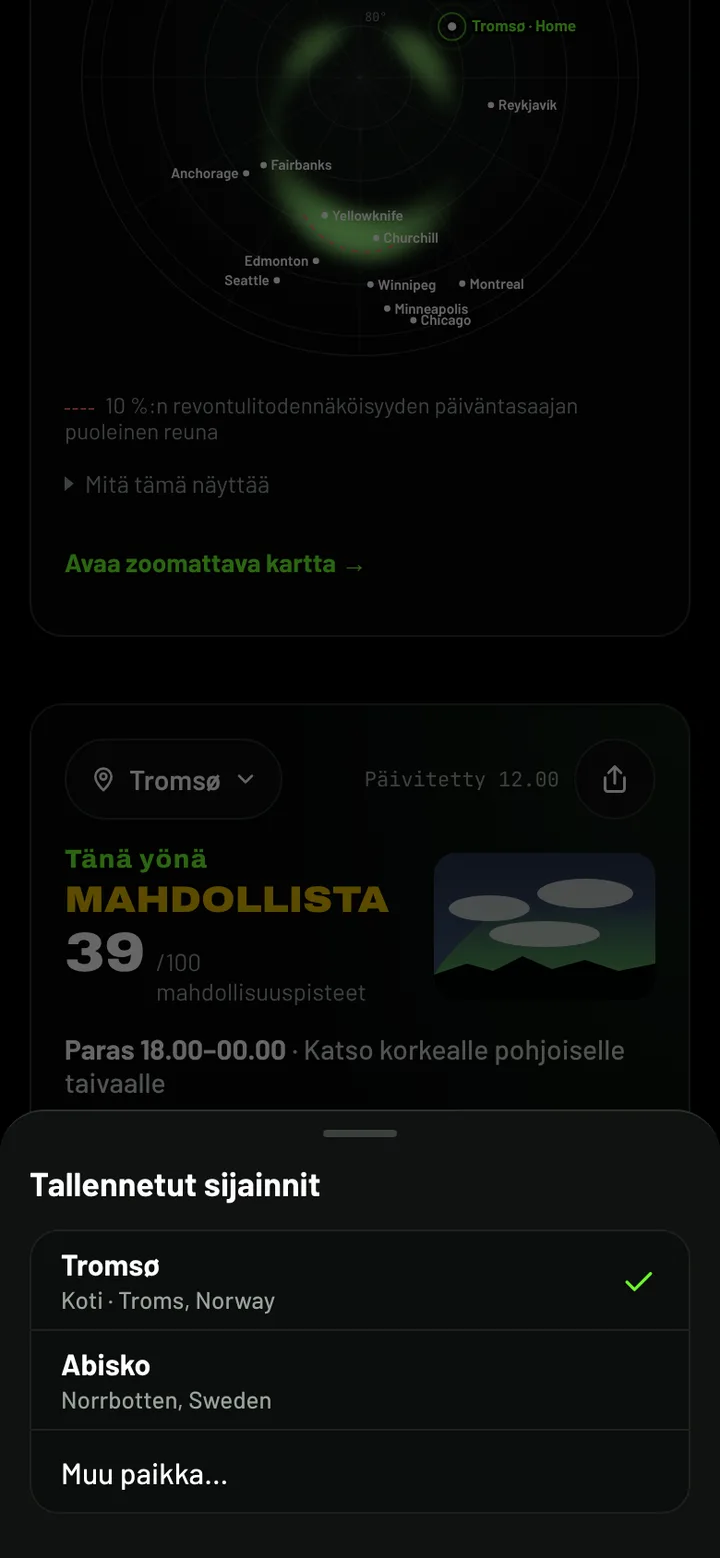
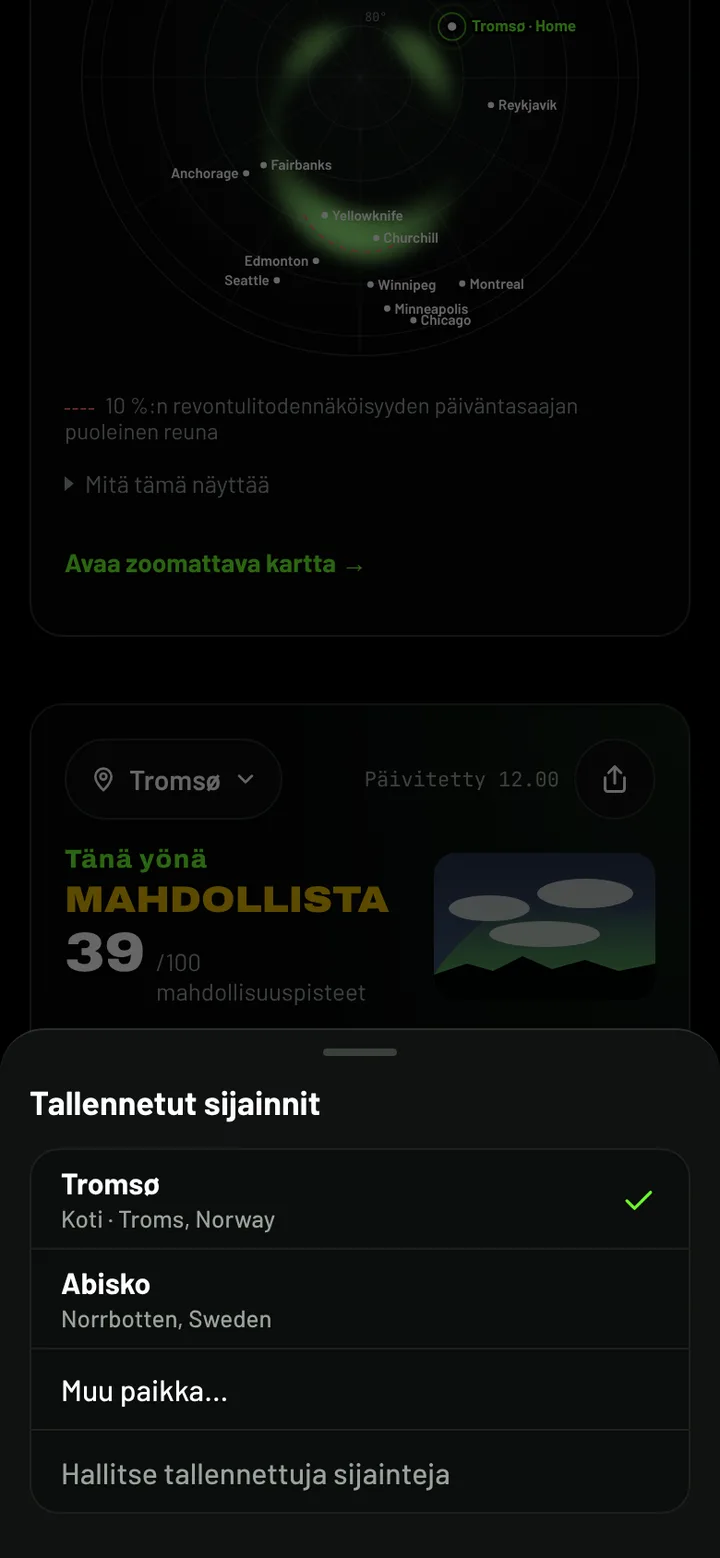
Place picker: help article in nine languages, new place-list screenshots
Claude-Session: https://claude.ai/code/session_012CrCYLZEfx1x1rGoXHPbfj

Changed region(s): [[0.0306, 0.647, 0.8556, 0.9551]]

diff --git a/app/src/i18n/messages/de.ts b/app/src/i18n/messages/de.ts
@@ -719,7 +719,7 @@ export const de: Messages = {
   'tonight.setPlace': 'Standort festlegen',
   'tonight.changePlace': 'Standort ändern ({place})',
   'tonight.otherPlace': "Anderer Ort…",
-  'place.find': "Ort suchen",
+  'place.find': "Ort finden",
   'place.show': "Diesen Ort anzeigen",
   'place.manage': "Gespeicherte Orte verwalten",
   'tonight.updated': 'Aktualisiert {time}',

diff --git a/app/content/support/ru/start/set-your-location.md b/app/content/support/ru/start/set-your-location.md
@@ -7,22 +7,29 @@ order: 30
 
 ## Как указать «Дом»
 
-На странице **Сейчас** нажмите **Указать место** на карточке **Сегодня ночью**. Откроется поиск места в блоке **Ваше небо** чуть ниже. Затем:
+На странице **Сейчас** нажмите **Указать место** на карточке **Сегодня ночью**. Откроется окно **Найти место**. Затем:
 
 - нажмите **Моё текущее местоположение** и разрешите доступ к геопозиции или
 - введите название города в поле **Найти город**, нажмите **Найти** и выберите нужный результат.
 
-Чтобы сохранить место, выберите **Сохранить как «Дом»**. Ваши оповещения тоже будут для этого места.
+После этого выберите **Сохранить как «Дом»**. Ваши оповещения тоже будут для этого места.
 
 ## Как переключаться между местами
 
-Нажмите на название места на карточке **Сегодня ночью**. В списке **Сохранённые места** перечислены ваши места; нажмите на одно из них, чтобы увидеть прогноз на эту ночь. Пункт **Другое место…** позволяет посмотреть новое место, не сохраняя его.
+Нажмите на название места вверху карточки **Сегодня ночью**. В списке **Сохранённые места** перечислены ваши места; нажмите на одно из них, чтобы увидеть прогноз на эту ночь. Блок **Ваше небо** ниже всегда показывает то же место, а его кнопка **Сменить место** открывает тот же список.
 
-![Список мест на карточке «Сегодня ночью», «Дом» отмечен галочкой](screen:tonight-places)
+![Список мест: сохранённые места, «Другое место…» и «Управлять сохранёнными местами»](screen:tonight-places)
+
+## Как посмотреть другое место
+
+В списке нажмите **Другое место…** и найдите его так же. Затем выберите:
+
+- **Показать это место**, чтобы сразу увидеть прогноз для него, не сохраняя его. Кнопка **Назад к «Дому»** в блоке **Ваше небо** вернёт вас к «Дому».
+- **Сохранить как «Дом»**, чтобы сделать его «Домом». На тарифе «Бесплатный» оно заменит ваш текущий «Дом».
 
 ## Управление местами
 
-На телефоне откройте **Профиль** → **Сохранённые места**, на компьютере — **Панель** → **Места**. Для каждого места показано, какое там небо сейчас. Здесь можно:
+Нажмите **Управлять сохранёнными местами** внизу списка или на телефоне откройте **Профиль** → **Сохранённые места**. На компьютере откройте **Панель** → **Места**. Для каждого места показано, какое там небо сейчас. Здесь можно:
 
 - **Добавить место**,
 - **Сделать «Домом»** другое сохранённое место,

diff --git a/app/content/support/de/start/set-your-location.md b/app/content/support/de/start/set-your-location.md
@@ -7,22 +7,29 @@ Alles auf der Seite **Jetzt** wird für einen Ort berechnet: ob es dort dunkel i
 
 ## Heimatort festlegen
 
-Tippen Sie auf der Seite **Jetzt** in der Karte **Heute Nacht** auf **Standort festlegen**. Dadurch öffnet sich die Ortssuche in **Ihr Himmel**, etwas weiter unten. Dann können Sie entweder:
+Tippen Sie auf der Seite **Jetzt** in der Karte **Heute Nacht** auf **Standort festlegen**. Es öffnet sich **Ort finden**. Dann können Sie entweder:
 
 - auf **Meinen aktuellen Standort verwenden** tippen und den Zugriff auf Ihren Standort erlauben, oder
 - einen Ort in **Ort suchen** eingeben, auf **Suchen** tippen und das richtige Ergebnis auswählen.
 
-Wählen Sie **Als Heimatort speichern**, um ihn zu behalten. Ihre Alarme gelten ebenfalls für diesen Ort.
+Wählen Sie anschließend **Als Heimatort speichern**. Ihre Alarme gelten ebenfalls für diesen Ort.
 
 ## Zwischen Orten wechseln
 
-Tippen Sie auf den Ortsnamen in der Karte **Heute Nacht**. Unter **Gespeicherte Orte** sind Ihre Orte aufgeführt; tippen Sie auf einen, um die Vorhersage für heute Nacht dort zu sehen. Mit **Anderer Ort…** sehen Sie sich einen neuen Ort an, ohne ihn zu speichern.
+Tippen Sie oben in der Karte **Heute Nacht** auf den Ortsnamen. Unter **Gespeicherte Orte** sind Ihre Orte aufgeführt; tippen Sie auf einen, um die Vorhersage für heute Nacht dort zu sehen. **Ihr Himmel** weiter unten zeigt immer denselben Ort, und die Schaltfläche **Ort ändern** dort öffnet dieselbe Liste.
 
-![Die Ortsliste der Karte Heute Nacht, mit Häkchen beim Heimatort](screen:tonight-places)
+![Die Ortsliste: gespeicherte Orte, Anderer Ort… und Gespeicherte Orte verwalten](screen:tonight-places)
+
+## Einen anderen Ort ansehen
+
+Tippen Sie in der Liste auf **Anderer Ort…** und suchen Sie ihn auf dieselbe Weise. Wählen Sie dann:
+
+- **Diesen Ort anzeigen**, um seine Vorhersage sofort zu sehen, ohne ihn zu speichern. Mit **Zurück zum Heimatort** in **Ihr Himmel** kehren Sie zum Heimatort zurück.
+- **Als Heimatort speichern**, um ihn zu Ihrem Heimatort zu machen. Im Tarif Kostenlos ersetzt er Ihren bisherigen Heimatort.
 
 ## Orte verwalten
 
-Öffnen Sie auf dem Handy **Profil** → **Gespeicherte Orte**. Öffnen Sie am Computer **Dashboard** → **Orte**. Zu jedem Ort sehen Sie den Himmel im Moment. Hier können Sie:
+Tippen Sie unten in der Liste auf **Gespeicherte Orte verwalten**, oder öffnen Sie auf dem Handy **Profil** → **Gespeicherte Orte**. Öffnen Sie am Computer **Dashboard** → **Orte**. Zu jedem Ort sehen Sie den Himmel im Moment. Hier können Sie:
 
 - mit **Ort hinzufügen** einen Ort hinzufügen,
 - mit **Als Heimatort** einen anderen gespeicherten Ort zum Heimatort machen,

diff --git a/app/content/support/nl/start/set-your-location.md b/app/content/support/nl/start/set-your-location.md
@@ -7,22 +7,29 @@ Alles op de pagina **Nu** wordt berekend voor één plek: of het daar donker is,
 
 ## Je thuislocatie instellen
 
-Tik op de pagina **Nu** op **Locatie instellen** op de kaart **Vannacht**. Daarmee open je de plaatszoeker in **Jouw hemel**, iets verder naar beneden. Daarna kun je:
+Tik op de pagina **Nu** op **Locatie instellen** op de kaart **Vannacht**. **Een plek zoeken** wordt geopend. Daarna kun je:
 
 - op **Mijn huidige locatie gebruiken** tikken en toegang tot je locatie toestaan, of
 - een plaats typen in **Zoek een plaats**, op **Zoeken** tikken en het juiste resultaat kiezen.
 
-Kies **Opslaan als thuis** om de plek te bewaren. Je meldingen gelden ook voor deze plek.
+Kies vervolgens **Opslaan als thuis**. Je meldingen gelden ook voor deze plek.
 
 ## Wisselen tussen plekken
 
-Tik op de naam van de plek op de kaart **Vannacht**. Onder **Opgeslagen locaties** staan je plekken; tik op een plek om de verwachting voor vannacht daar te zien. Met **Andere plaats…** bekijk je een nieuwe plek zonder die op te slaan.
+Tik op de naam van de plek bovenaan de kaart **Vannacht**. Onder **Opgeslagen locaties** staan je plekken; tik op een plek om de verwachting voor vannacht daar te zien. **Jouw hemel**, verder naar beneden, toont altijd dezelfde plek, en de knop **Locatie wijzigen** daar opent dezelfde lijst.
 
-![De lijst met plekken op de kaart Vannacht, met je thuislocatie aangevinkt](screen:tonight-places)
+![De lijst met plekken: opgeslagen plekken, Andere plaats… en Opgeslagen locaties beheren](screen:tonight-places)
+
+## Een andere plek bekijken
+
+Tik in de lijst op **Andere plaats…** en zoek de plek op dezelfde manier. Kies daarna:
+
+- **Deze plek tonen** om nu de verwachting te zien zonder de plek op te slaan. Met **Terug naar thuislocatie** in **Jouw hemel** ga je terug naar je thuislocatie.
+- **Opslaan als thuis** om er je thuislocatie van te maken. Met het abonnement Gratis vervangt die je huidige thuislocatie.
 
 ## Je plekken beheren
 
-Open op een telefoon **Profiel** → **Opgeslagen locaties**. Open op een computer **Dashboard** → **Locaties**. Bij elke plek zie je hoe de hemel er nu bij staat. Hier kun je:
+Tik onderaan de lijst op **Opgeslagen locaties beheren**, of open op een telefoon **Profiel** → **Opgeslagen locaties**. Open op een computer **Dashboard** → **Locaties**. Bij elke plek zie je hoe de hemel er nu bij staat. Hier kun je:
 
 - **Locatie toevoegen**,
 - met **Maak thuislocatie** een andere opgeslagen plek je thuislocatie maken,

diff --git a/app/content/support/es/start/set-your-location.md b/app/content/support/es/start/set-your-location.md
@@ -7,22 +7,29 @@ Todo lo que ves en la página **Ahora** se calcula para un lugar: si allí es de
 
 ## Elige tu ubicación principal
 
-En la página **Ahora**, toca **Elegir ubicación** en la tarjeta **Esta noche**. Se abre el buscador de lugares en **Tu cielo**, un poco más abajo. Después:
+En la página **Ahora**, toca **Elegir ubicación** en la tarjeta **Esta noche**. Se abre **Buscar un lugar**. Después:
 
 - toca **Usar mi ubicación actual** y permite el acceso a tu ubicación, o
 - escribe una localidad en **Busca una localidad**, toca **Buscar** y elige el resultado correcto.
 
-Elige **Guardar como principal** para conservarla. Tus alertas también son para este lugar.
+Luego elige **Guardar como principal**. Tus alertas también son para este lugar.
 
 ## Cambia de lugar
 
-Toca el nombre del lugar en la tarjeta **Esta noche**. **Ubicaciones guardadas** muestra tus lugares; toca uno para ver la previsión de esta noche allí. **Otro lugar…** te permite consultar un sitio nuevo sin guardarlo.
+Toca el nombre del lugar en la parte superior de la tarjeta **Esta noche**. **Ubicaciones guardadas** muestra tus lugares; toca uno para ver la previsión de esta noche allí. **Tu cielo**, más abajo, siempre muestra el mismo lugar, y su botón **Cambiar ubicación** abre la misma lista.
 
-![La lista de lugares de la tarjeta Esta noche, con la ubicación principal marcada](screen:tonight-places)
+![La lista de lugares: lugares guardados, Otro lugar… y Gestionar ubicaciones guardadas](screen:tonight-places)
+
+## Consulta otro lugar
+
+En la lista, toca **Otro lugar…** y búscalo de la misma forma. Después elige:
+
+- **Mostrar este lugar** para ver ahora su previsión sin guardarlo. **Volver a la principal**, en **Tu cielo**, te devuelve a tu ubicación principal.
+- **Guardar como principal** para convertirlo en tu ubicación principal. En el plan Gratis, sustituye a tu ubicación principal actual.
 
 ## Gestiona tus lugares
 
-En el móvil, abre **Perfil** → **Ubicaciones guardadas**. En el ordenador, abre **Panel** → **Lugares**. Cada lugar muestra cómo está su cielo ahora mismo. Desde aquí puedes:
+Toca **Gestionar ubicaciones guardadas** al final de la lista o, en el móvil, abre **Perfil** → **Ubicaciones guardadas**. En el ordenador, abre **Panel** → **Lugares**. Cada lugar muestra cómo está su cielo ahora mismo. Desde aquí puedes:
 
 - **Añadir una ubicación**,
 - **Hacer principal** para cambiar tu ubicación principal a otro lugar guardado,

diff --git a/app/content/support/fi/start/set-your-location.md b/app/content/support/fi/start/set-your-location.md
@@ -7,22 +7,29 @@ Kaikki **Nyt**-sivun tiedot lasketaan yhdelle paikalle: onko siellä pimeää, k
 
 ## Aseta koti
 
-Napauta **Nyt**-sivulla **Tänä yönä** -kortin **Aseta sijainti**. Se avaa paikanhaun hieman alempana olevassa **Oma taivas** -osiossa. Sitten joko:
+Napauta **Nyt**-sivulla **Tänä yönä** -kortin **Aseta sijainti**. **Etsi paikka** avautuu. Sitten joko:
 
 - napauta **Käytä nykyistä sijaintiani** ja salli sijainnin käyttö, tai
 - kirjoita paikkakunta kenttään **Hae paikkakuntaa**, napauta **Hae** ja valitse oikea tulos.
 
-Säilytä paikka valitsemalla **Tallenna kodiksi**. Myös hälytyksesi koskevat tätä paikkaa.
+Valitse lopuksi **Tallenna kodiksi**. Myös hälytyksesi koskevat tätä paikkaa.
 
 ## Vaihda paikkojen välillä
 
-Napauta paikan nimeä **Tänä yönä** -kortissa. **Tallennetut sijainnit** luettelee paikkasi; napauttamalla paikkaa näet sen tämän yön ennusteen. **Muu paikka…** antaa katsoa uutta paikkaa tallentamatta sitä.
+Napauta paikan nimeä **Tänä yönä** -kortin yläosassa. **Tallennetut sijainnit** luettelee paikkasi; napauttamalla paikkaa näet sen tämän yön ennusteen. Alempana oleva **Oma taivas** näyttää aina saman paikan, ja sen **Vaihda sijainti** -painike avaa saman luettelon.
 
-![Tänä yönä -kortin paikkaluettelo, koti valittuna](screen:tonight-places)
+![Paikkaluettelo: tallennetut paikat, Muu paikka… ja Hallitse tallennettuja sijainteja](screen:tonight-places)
+
+## Katso toista paikkaa
+
+Napauta luettelossa **Muu paikka…** ja hae paikka samalla tavalla. Valitse sitten:
+
+- **Näytä tämä paikka**, niin näet sen ennusteen heti tallentamatta sitä. **Oma taivas** -osion **Takaisin kotiin** palauttaa näkymän kotiin.
+- **Tallenna kodiksi**, niin paikasta tulee kotisi. Ilmaisessa tilauksessa se korvaa nykyisen kotisi.
 
 ## Hallitse paikkojasi
 
-Avaa puhelimessa **Sinä** → **Tallennetut sijainnit**. Avaa tietokoneella **Ohjauspaneeli** → **Sijainnit**. Jokaisesta paikasta näkyy sen taivas juuri nyt. Täällä voit:
+Napauta luettelon alareunassa **Hallitse tallennettuja sijainteja** tai avaa puhelimessa **Sinä** → **Tallennetut sijainnit**. Avaa tietokoneella **Ohjauspaneeli** → **Sijainnit**. Jokaisesta paikasta näkyy sen taivas juuri nyt. Täällä voit:
 
 - lisätä paikan valitsemalla **Lisää sijainti**,
 - siirtää kodin toiseen tallennettuun paikkaan valitsemalla **Aseta kodiksi**,

diff --git a/app/content/support/sv/start/set-your-location.md b/app/content/support/sv/start/set-your-location.md
@@ -7,22 +7,29 @@ Allt på sidan **Nu** räknas ut för en plats: om det är mörkt där, hur moln
 
 ## Ange Hem
 
-Tryck på **Ange plats** på kortet **I kväll** på sidan **Nu**. Då öppnas platssökningen i **Din himmel**, lite längre ned. Sedan kan du antingen:
+Tryck på **Ange plats** på kortet **I kväll** på sidan **Nu**. Då öppnas **Hitta en plats**. Sedan kan du antingen:
 
 - trycka på **Använd min nuvarande plats** och tillåta platsåtkomst, eller
 - skriva en ort i **Sök en ort**, trycka på **Sök** och välja rätt resultat.
 
-Välj **Spara som Hem** för att behålla den. Dina aviseringar gäller också den här platsen.
+Välj därefter **Spara som Hem**. Dina aviseringar gäller också den här platsen.
 
 ## Växla mellan platser
 
-Tryck på platsens namn på kortet **I kväll**. **Sparade platser** listar dina platser; tryck på en för att se kvällens prognos där. Med **En annan plats…** kan du titta på ett nytt ställe utan att spara det.
+Tryck på platsens namn högst upp på kortet **I kväll**. **Sparade platser** listar dina platser; tryck på en för att se kvällens prognos där. **Din himmel**, längre ned, visar alltid samma plats, och dess knapp **Byt plats** öppnar samma lista.
 
-![Platslistan på kortet I kväll, med Hem markerat](screen:tonight-places)
+![Platslistan: sparade platser, En annan plats… och Hantera sparade platser](screen:tonight-places)
+
+## Titta på en annan plats
+
+Tryck på **En annan plats…** i listan och hitta platsen på samma sätt. Välj sedan:
+
+- **Visa den här platsen** för att se prognosen där nu utan att spara den. **Tillbaka till Hem** i **Din himmel** tar dig tillbaka till Hem.
+- **Spara som Hem** för att göra den till ditt Hem. Med Gratisplanen ersätter den ditt nuvarande Hem.
 
 ## Hantera dina platser
 
-På en telefon öppnar du **Du** → **Sparade platser**. På en dator öppnar du **Översikt** → **Platser**. Varje plats visar hur himlen ser ut där just nu. Här finns:
+Tryck på **Hantera sparade platser** längst ned i listan, eller öppna **Du** → **Sparade platser** på en telefon. På en dator öppnar du **Översikt** → **Platser**. Varje plats visar hur himlen ser ut där just nu. Här finns:
 
 - **Lägg till en plats**,
 - **Gör till Hem**, som flyttar Hem till en annan sparad plats,

diff --git a/app/content/support/da/start/set-your-location.md b/app/content/support/da/start/set-your-location.md
@@ -7,22 +7,29 @@ Alt på siden **Nu** beregnes for ét sted: om det er mørkt der, hvor skyet det
 
 ## Angiv Hjem
 
-Tryk på **Angiv placering** på **I nat**-kortet på siden **Nu**. Det åbner stedsøgningen i **Din himmel** lidt længere nede. Derefter kan du enten:
+Tryk på **Angiv placering** på **I nat**-kortet på siden **Nu**. Så åbnes **Find et sted**. Derefter kan du enten:
 
 - trykke på **Brug min nuværende placering** og give adgang til din placering, eller
 - skrive en by i **Søg efter en by**, trykke på **Søg** og vælge det rigtige resultat.
 
-Vælg **Gem som Hjem** for at beholde det. Dine varsler gælder også for dette sted.
+Vælg så **Gem som Hjem**. Dine varsler gælder også for dette sted.
 
 ## Skift mellem steder
 
-Tryk på stedets navn på **I nat**-kortet. **Gemte placeringer** viser dine steder; tryk på et af dem for at se nattens prognose der. Med **Et andet sted…** kan du kigge på et nyt sted uden at gemme det.
+Tryk på stedets navn øverst på **I nat**-kortet. **Gemte placeringer** viser dine steder; tryk på et af dem for at se nattens prognose der. **Din himmel** længere nede viser altid det samme sted, og dens knap **Skift placering** åbner den samme liste.
 
-![Stedlisten på I nat-kortet med Hjem markeret](screen:tonight-places)
+![Stedlisten: gemte steder, Et andet sted… og Administrer gemte placeringer](screen:tonight-places)
+
+## Se et andet sted
+
+Tryk på **Et andet sted…** i listen, og find stedet på samme måde. Vælg derefter:
+
+- **Vis dette sted** for at se prognosen der nu uden at gemme det. **Tilbage til Hjem** i **Din himmel** fører dig tilbage til Hjem.
+- **Gem som Hjem** for at gøre det til dit Hjem. Med abonnementet Gratis erstatter det dit nuværende Hjem.
 
 ## Administrer dine steder
 
-På en telefon åbner du **Dig** → **Gemte placeringer**. På en computer åbner du **Oversigt** → **Placeringer**. Hvert sted viser sin himmel lige nu. Herfra kan du:
+Tryk på **Administrer gemte placeringer** nederst i listen, eller åbn **Dig** → **Gemte placeringer** på en telefon. På en computer åbner du **Oversigt** → **Placeringer**. Hvert sted viser sin himmel lige nu. Herfra kan du:
 
 - **Tilføj en placering**,
 - **Gør til Hjem** for at flytte Hjem til et andet gemt sted,

diff --git a/app/content/support/nb/start/set-your-location.md b/app/content/support/nb/start/set-your-location.md
@@ -7,22 +7,29 @@ Alt på **Nå**-siden er beregnet for ett sted: om det er mørkt der, hvor skyet
 
 ## Velg Hjem
 
-På **Nå**-siden trykker du på **Velg sted** på **I natt**-kortet. Da åpnes stedsvelgeren i **Din himmel**, litt lenger ned. Deretter kan du enten:
+På **Nå**-siden trykker du på **Velg sted** på **I natt**-kortet. Da åpnes **Finn et sted**. Deretter kan du enten:
 
 - trykke på **Bruk posisjonen min** og gi tilgang til posisjon, eller
 - skrive inn et sted i **Søk etter et sted**, trykke på **Søk** og velge riktig treff.
 
-Velg **Lagre som Hjem** for å beholde det. Varslene dine gjelder også for dette stedet.
+Velg så **Lagre som Hjem**. Varslene dine gjelder også for dette stedet.
 
 ## Bytt mellom steder
 
-Trykk på stedsnavnet på **I natt**-kortet. **Lagrede steder** viser stedene dine; trykk på et for å se varselet for i natt der. Med **Et annet sted…** kan du se på et nytt sted uten å lagre det.
+Trykk på stedsnavnet øverst på **I natt**-kortet. **Lagrede steder** viser stedene dine; trykk på et for å se varselet for i natt der. **Din himmel**, lenger ned, viser alltid det samme stedet, og knappen **Bytt sted** der åpner den samme listen.
 
-![Stedslisten på I natt-kortet, med Hjem avkrysset](screen:tonight-places)
+![Stedslisten: lagrede steder, Et annet sted… og Administrer lagrede steder](screen:tonight-places)
+
+## Se på et annet sted
+
+Trykk på **Et annet sted…** i listen, og finn stedet på samme måte. Velg deretter:
+
+- **Vis dette stedet** for å se varselet der nå uten å lagre det. **Tilbake til Hjem** i **Din himmel** tar deg tilbake til Hjem.
+- **Lagre som Hjem** for å gjøre det til Hjem. Med Gratis-planen erstatter dette Hjem-stedet du har nå.
 
 ## Administrer stedene dine
 
-På mobilen åpner du **Deg** → **Lagrede steder**. På en datamaskin åpner du **Dashbord** → **Steder**. Hvert sted viser himmelen der akkurat nå. Herfra kan du velge:
+Trykk på **Administrer lagrede steder** nederst i listen, eller åpne **Deg** → **Lagrede steder** på mobilen. På en datamaskin åpner du **Dashbord** → **Steder**. Hvert sted viser himmelen der akkurat nå. Herfra kan du velge:
 
 - **Legg til et sted**,
 - **Gjør til Hjem** for å flytte Hjem til et annet lagret sted,
